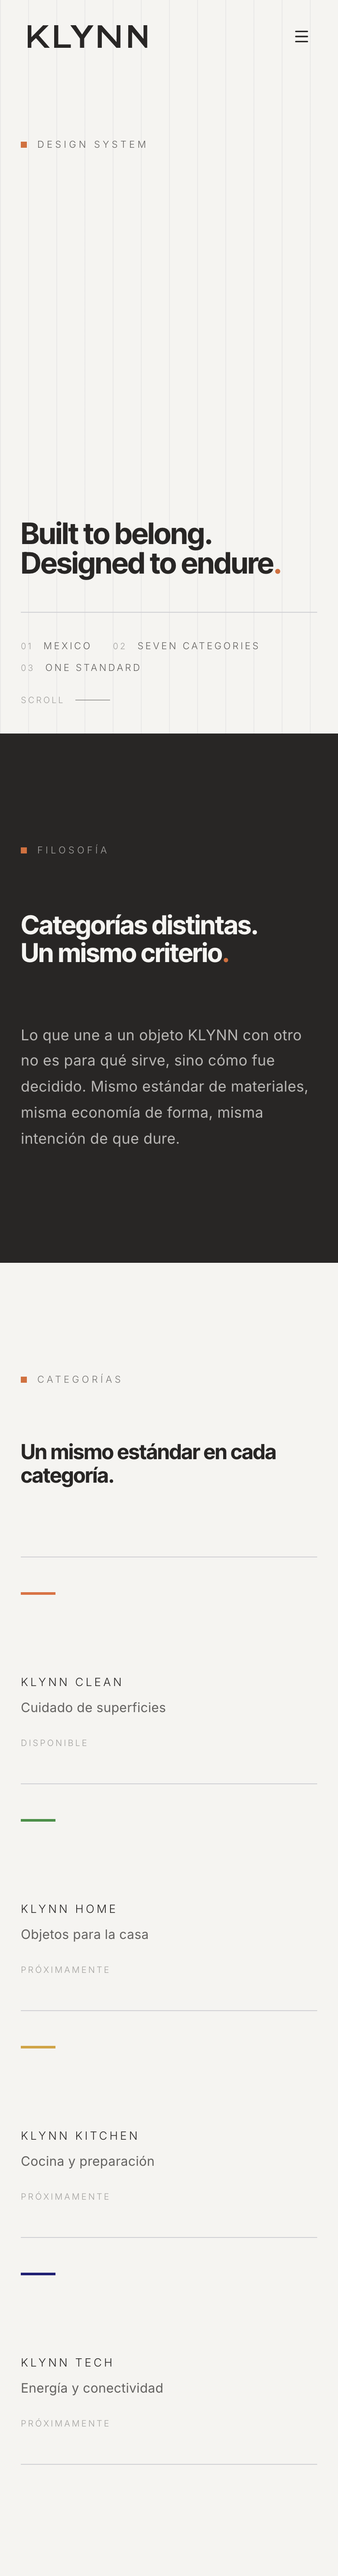
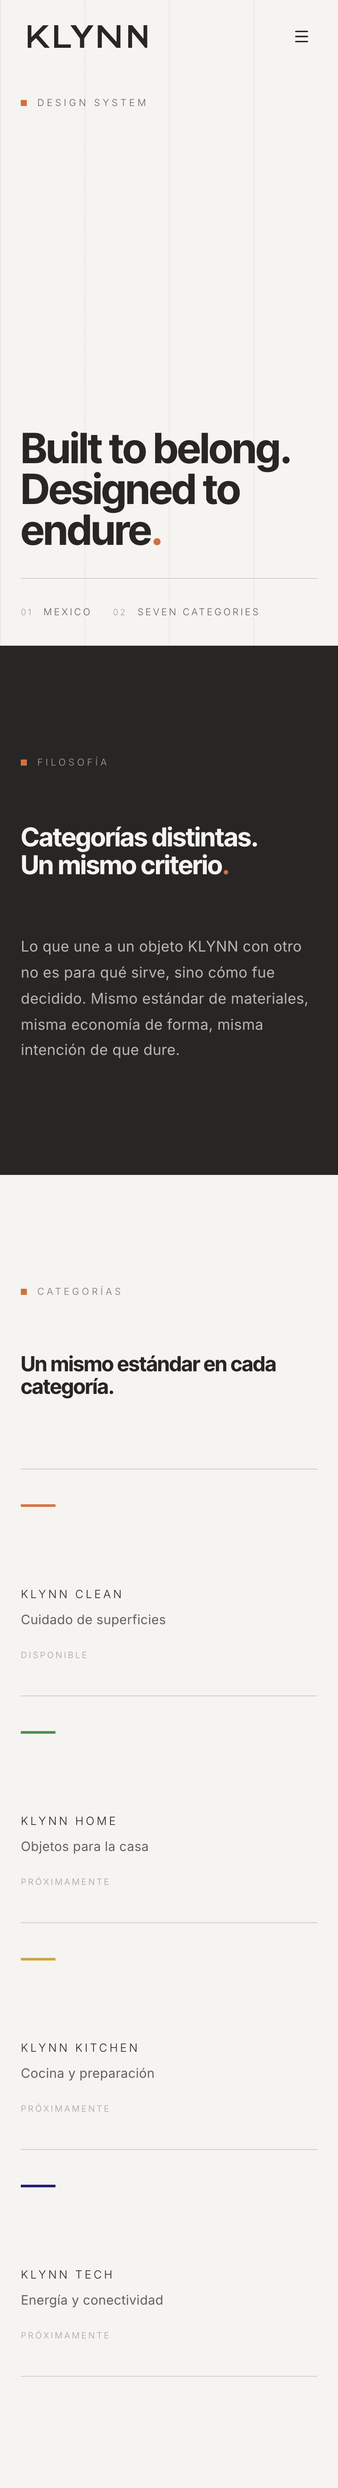
design(hero): iteracion movil — impacto equivalente al desktop
- Titular movil de 34px a 48px (clamp min 3rem). El fold movil se leia timido
  frente al desktop.
- Reticula a 4 columnas por debajo de 640px. Doce lineas caian cada 32px y
  dejaban de leerse como estructura para leerse como rayado.
- Fold movil comprimido a 88svh (min 560px): a pantalla completa el titular
  nadaba en vacio.
- Banda de especificacion simplificada en movil: se conservan los dos primeros
  datos y se oculta el indicador de scroll. Partia en dos lineas y saturaba.
- Wordmark, terracota, banda y hamburguesa intactos. Desktop sin cambios.

Verificado con emulacion real de dispositivo (CDP):
viewport 390 · documento 390 · overflow horizontal 0.
tsc 0 errores, eslint limpio, build 35 paginas.

diff --git a/src/components/klynn/Hero.tsx b/src/components/klynn/Hero.tsx
@@ -36,20 +36,30 @@ const SPEC = [
 export default function Hero() {
   return (
     <Section rhythm="hero" tone="light" className="relative overflow-hidden">
-      {/* Retícula de construcción — 12 columnas, hairline casi inaudible */}
+      {/* Retícula de construcción — hairline casi inaudible.
+          12 columnas en desktop; 4 por debajo de 640px, donde doce líneas
+          caen cada 32px y dejan de leerse como estructura para leerse como
+          rayado. */}
       <div
         aria-hidden
-        className="pointer-events-none absolute inset-0 opacity-[0.32]"
+        className="pointer-events-none absolute inset-0 opacity-[0.32] sm:hidden"
+        style={{
+          backgroundImage:
+            'repeating-linear-gradient(to right, var(--color-k-gray-light) 0 1px, transparent 1px calc(100% / 4))',
+        }}
+      />
+      <div
+        aria-hidden
+        className="pointer-events-none absolute inset-0 hidden opacity-[0.32] sm:block"
         style={{
           backgroundImage:
             'repeating-linear-gradient(to right, var(--color-k-gray-light) 0 1px, transparent 1px calc(100% / 12))',
-          backgroundSize: '100% 100%',
         }}
       />
 
       <Container className="relative flex h-full flex-col justify-end pb-0">
         {/* Índice — firma cromática superior */}
-        <div className="mb-auto flex items-center gap-3 pt-40">
+        <div className="mb-auto flex items-center gap-3 pt-28 sm:pt-40">
           <span
             aria-hidden
             className="h-[7px] w-[7px]"
@@ -61,7 +71,7 @@ export default function Hero() {
         </div>
 
         {/* Titular — apoyado sobre la regla */}
-        <h1 className="k-h1 max-w-[20ch] pb-10 text-[clamp(2.125rem,8.4vw,7.25rem)] leading-[0.98] tracking-[-0.022em]">
+        <h1 className="k-h1 max-w-[20ch] pb-8 text-[clamp(3rem,8.4vw,7.25rem)] leading-[0.98] tracking-[-0.022em] sm:pb-10">
           Built to belong.
           <br />
           Designed to endure
@@ -73,8 +83,14 @@ export default function Hero() {
         {/* Banda de especificación */}
         <div className="flex flex-col gap-6 py-8 sm:flex-row sm:items-center sm:justify-between">
           <ul className="flex flex-wrap items-center gap-x-6 gap-y-3 sm:gap-x-12">
-            {SPEC.map(s => (
-              <li key={s.i} className="flex items-baseline gap-3">
+            {SPEC.map((s, i) => (
+              <li
+                key={s.i}
+                // En móvil la banda se satura y parte en dos líneas. Se
+                // conservan los dos primeros datos; el tercero es el que menos
+                // información aporta en un primer contacto.
+                className={`flex items-baseline gap-3 ${i === 2 ? 'hidden sm:flex' : ''}`}
+              >
                 <span className="k-caption text-[0.625rem] tracking-[0.2em] text-[var(--color-k-graphite)] opacity-40">
                   {s.i}
                 </span>
@@ -85,7 +101,7 @@ export default function Hero() {
             ))}
           </ul>
 
-          <span className="k-caption flex items-center gap-3 text-[0.625rem] uppercase tracking-[0.2em] text-[var(--color-k-graphite)] opacity-40">
+          <span className="k-caption hidden items-center gap-3 text-[0.625rem] uppercase tracking-[0.2em] text-[var(--color-k-graphite)] opacity-40 sm:flex">
             Scroll
             <span aria-hidden className="block h-px w-10 bg-current" />
           </span>

diff --git a/src/design-system/primitives.tsx b/src/design-system/primitives.tsx
@@ -48,9 +48,12 @@ const TONE: Record<Tone, string> = {
 type Rhythm = 'hero' | 'loose' | 'normal' | 'tight'
 
 const RHYTHM: Record<Rhythm, string> = {
-  // h + max-h (no min-h: en CSS min-height gana sobre max-height y el fold
-  // se estiraría sin tope en pantallas muy altas, perdiendo tensión).
-  hero: 'h-[100svh] min-h-[640px] max-h-[1080px] flex items-center',
+  // h + max-h (no min-h solo: en CSS min-height gana sobre max-height y el
+  // fold se estiraría sin tope en pantallas muy altas, perdiendo tensión).
+  // En móvil se comprime a 88svh: a pantalla completa el titular nadaba en
+  // vacío y el fold perdía tensión.
+  hero:
+    'h-[88svh] min-h-[560px] max-h-[1080px] sm:h-[100svh] sm:min-h-[640px] flex items-center',
   loose: 'py-32 lg:py-44',
   normal: 'py-24 lg:py-32',
   tight: 'py-16 lg:py-20',
